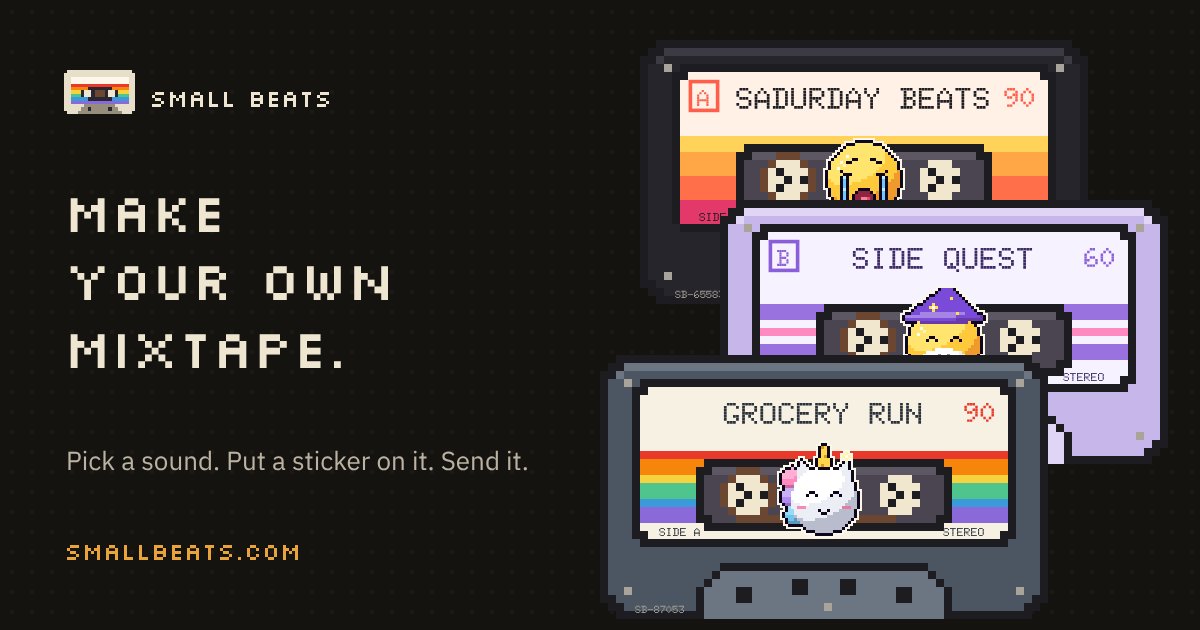
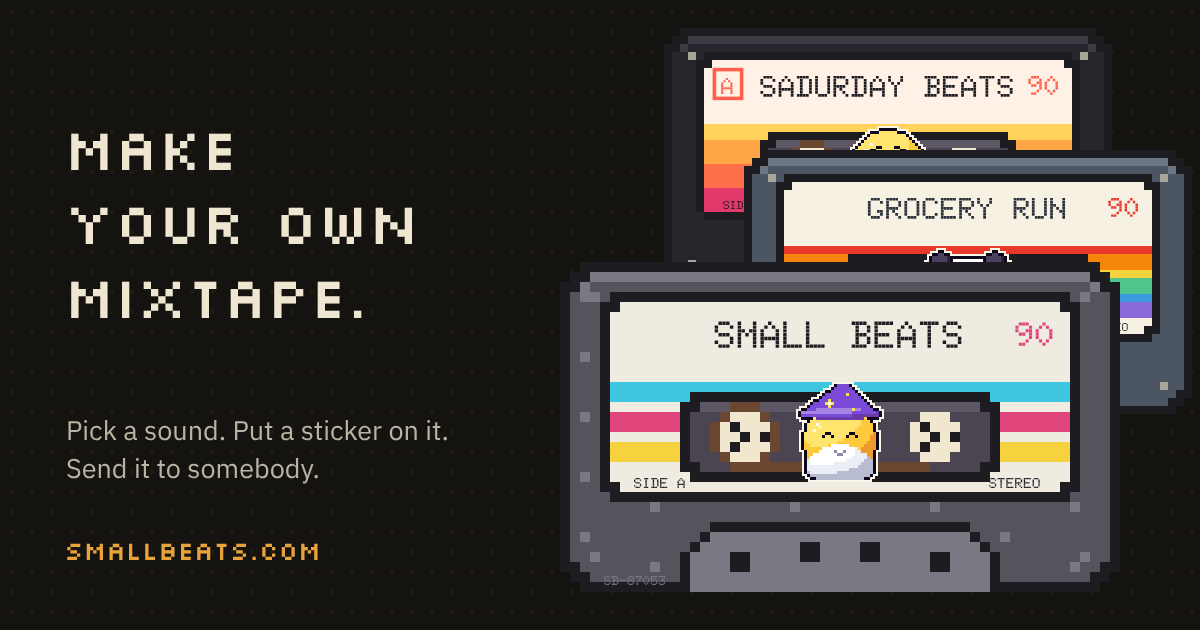
mix

diff --git a/index.html b/index.html
@@ -12,11 +12,11 @@
 <meta property="og:url" content="https://smallbeats.com/">
 <meta property="og:title" content="Small Beats · Make your own mixtape">
 <meta property="og:description" content="Pick a sound. Mix a few parts. Put a sticker on it. Send it to somebody.">
-<meta property="og:image" content="https://smallbeats.com/og.png?v=3">
+<meta property="og:image" content="https://smallbeats.com/og.png?v=6">
 <meta property="og:image:width" content="1200"><meta property="og:image:height" content="630">
-<meta property="og:image:alt" content="Three pixel cassettes, GROCERY RUN, SIDE QUEST and SADURDAY BEATS, each with a sticker, next to the words Make your own mixtape.">
+<meta property="og:image:alt" content="A smoked pixel cassette with cyan, pink and yellow stripes, labelled SMALL BEATS with a wizard sticker, in front of two more tapes, next to the words Make your own mixtape.">
 <meta name="twitter:card" content="summary_large_image">
-<meta name="twitter:image" content="https://smallbeats.com/og.png?v=3">
+<meta name="twitter:image" content="https://smallbeats.com/og.png?v=6">
 <link rel="icon" href="icons/favicon-32.png" sizes="32x32" type="image/png">
 <link rel="apple-touch-icon" href="icons/apple-touch-icon.png">
 <link rel="manifest" href="manifest.webmanifest">
@@ -29,7 +29,7 @@
 <a class="skip" href="#make">Skip to the machine</a>
 
 <header class="top">
-  <a class="brand" href="/" aria-label="Small Beats home"><i class="brand-mark" aria-hidden="true"></i><span>SMALL BEATS</span></a>
+  <a class="brand" href="/" aria-label="Small Beats home"><picture><source media="(max-width:620px)" srcset="icons/logo-2.png 1x, icons/logo-4.png 2x"><img class="brand-logo" src="icons/logo-3.png" srcset="icons/logo-3.png 1x, icons/logo-6.png 2x" alt="Small Beats"></picture></a>
   <nav class="nav" aria-label="Main"><a href="#make">MAKE</a><a href="#tapes" id="navTapes" hidden>TAPES<b class="nav-n" id="navCount"></b></a><a href="#about">ABOUT</a><a href="https://www.youtube.com/@smallbeatsfm" target="_blank" rel="noopener">YOUTUBE</a></nav>
 </header>
 

diff --git a/app.js b/app.js
@@ -77,11 +77,11 @@ let S={vol:.8,by:'',tapes:[],draft:null};
 try{const v=JSON.parse(localStorage.getItem(STORE)||'null');if(v&&typeof v==='object')Object.assign(S,v);}catch(e){}
 S.tapes=(Array.isArray(S.tapes)?S.tapes:[]).map(cleanTape).filter(Boolean).slice(0,60);
 const STARTERS=[ /* three tapes already on the shelf on a first visit, so the shelf, PLAY, REMIX and COPY LINK explain themselves */
-  {id:'grocery',n:'GROCERY RUN',c:9,d:3,b:3,k:3,w:0,p:1,s:1,r:1422687053,t:224,i:1},
-  {id:'sadurday',n:'SADURDAY BEATS',c:4,d:2,b:1,k:1,w:0,p:1,s:0,r:1469865583,t:56,i:1},
-  {id:'sidequest',n:'SIDE QUEST',c:5,d:2,b:1,k:4,w:0,p:1,s:3,r:1469865583,t:196,i:1}];
+  {id:'grocery',n:'GROCERY RUN',c:9,d:3,b:1,k:3,w:0,p:1,s:1,r:1422687053,t:214,i:1},
+  {id:'sidequest',n:'SIDE QUEST',c:5,d:2,b:1,k:4,w:0,p:1,s:3,r:1469865583,t:196,i:1},
+  {id:'sadurday',n:'SADURDAY BEATS',c:4,d:2,b:1,k:1,w:0,p:1,s:0,r:1469865583,t:56,i:1}];
 if(!S.seeded&&!BC){S.tapes=STARTERS.map(cleanTape).concat(S.tapes).slice(0,60);S.seeded=1;} /* once: throw them out and they stay gone */
-const FIRST_TAPE=STARTERS[0]; /* what a first visit opens on: house, synth bass, pad, the rainbow tape, the unicorn */
+const FIRST_TAPE=STARTERS[0]; /* what a first visit opens on: house, warm bass, pad, the rainbow tape, the panda */
 let draft=cleanTape(S.draft)||cleanTape(FIRST_TAPE);delete draft.id;
 function save(){if(BC)return;S.draft=draft;try{localStorage.setItem(STORE,JSON.stringify(S));}catch(e){}}
 let mail=null;{const c=Q.get('tape');if(c)mail=decodeTape(c);}

diff --git a/sw.js b/sw.js
@@ -3,7 +3,7 @@
    Updates need no version bump: every request goes to the network first (revalidating, not trusting the HTTP cache), so
    anyone online gets exactly what's deployed, and the offline copy refreshes as they go. The cache is only used offline. */
 const CACHE = 'smallbeats-v1';
-const SHELL = ['./', './index.html', './privacy.html', './terms.html', './404.html', './app.css', './app.js', './engine.js', './stickers.js', './stickers.png', './analytics.js', './fonts/silkscreen-400.woff2', './fonts/doto-900.woff2', './fonts/doto-700.woff2', './fonts/plex-400.woff2', './fonts/plex-600.woff2', './manifest.webmanifest', './icons/mark.png', './icons/icon-192.png', './icons/icon-512.png', './icons/favicon-32.png', './icons/apple-touch-icon.png'];
+const SHELL = ['./', './index.html', './privacy.html', './terms.html', './404.html', './app.css', './app.js', './engine.js', './stickers.js', './stickers.png', './analytics.js', './fonts/silkscreen-400.woff2', './fonts/doto-900.woff2', './fonts/doto-700.woff2', './fonts/plex-400.woff2', './fonts/plex-600.woff2', './manifest.webmanifest', './icons/mark.png', './icons/logo-2.png', './icons/logo-3.png', './icons/logo-4.png', './icons/logo-6.png', './icons/icon-192.png', './icons/icon-512.png', './icons/favicon-32.png', './icons/apple-touch-icon.png'];
 self.addEventListener('install', (e) => {
   e.waitUntil(caches.open(CACHE).then((c) => c.addAll(SHELL.map((u) => new Request(u, { cache: 'reload' })))).then(() => self.skipWaiting()));
 });

diff --git a/app.css b/app.css
@@ -26,7 +26,8 @@ a{color:var(--amber)}
 /* ---- header ---- */
 .top{display:flex;align-items:center;justify-content:space-between;gap:4px 12px;max-width:1180px;margin:0 auto;padding:10px var(--gut);flex-wrap:wrap}
 .brand{display:flex;align-items:center;gap:8px;color:var(--cream);text-decoration:none;font:700 20px/1 Silk;letter-spacing:1px}
-.brand-mark{width:42px;height:26px;display:block;flex:0 0 auto;background:url(icons/mark.png) 0 0/42px 26px no-repeat;image-rendering:pixelated} /* the Rainbow tape, 21 x 13 pixels at 2x */
+.brand-logo{display:block;width:168px;height:99px;image-rendering:pixelated} /* the logo tape: Rainbow, SMALL BEATS, the wizard; drawn at whole-pixel sizes */
+@media (max-width:620px){.brand-logo{width:112px;height:66px}}
 .nav{display:flex;gap:4px 18px;flex-wrap:wrap}
 .nav a{color:var(--muted);text-decoration:none;font:700 13px/1 Silk;letter-spacing:1px;padding:10px 2px}
 .nav a:hover{color:var(--cream)}
@@ -244,3 +245,4 @@ a{color:var(--amber)}
 #tapeName.rolled{animation:rolled .6s steps(3,end)}
 @keyframes rolled{0%{background:var(--yellow)}100%{background:var(--cream)}}
 @media (prefers-reduced-motion:reduce){#tapeName.rolled{animation:none}}
+@media (max-width:620px){.top{flex-wrap:nowrap}.nav{gap:4px 14px;justify-content:flex-end}.nav a[href="#make"],.nav a[href="/#make"]{display:none}.nav a{font-size:12px}} /* phones: logo and links on one line */

diff --git a/404.html b/404.html
@@ -14,7 +14,7 @@
 </head>
 <body>
 <header class="top">
-  <a class="brand" href="/" aria-label="Small Beats home"><i class="brand-mark" aria-hidden="true"></i><span>SMALL BEATS</span></a>
+  <a class="brand" href="/" aria-label="Small Beats home"><picture><source media="(max-width:620px)" srcset="icons/logo-2.png 1x, icons/logo-4.png 2x"><img class="brand-logo" src="icons/logo-3.png" srcset="icons/logo-3.png 1x, icons/logo-6.png 2x" alt="Small Beats"></picture></a>
   <nav class="nav" aria-label="Main"><a href="/#make">MAKE</a><a href="/#tapes">TAPES</a><a href="/#about">ABOUT</a><a href="https://www.youtube.com/@smallbeatsfm" target="_blank" rel="noopener">YOUTUBE</a></nav>
 </header>
 <main class="page">

diff --git a/privacy.html b/privacy.html
@@ -14,7 +14,7 @@
 </head>
 <body>
 <header class="top">
-  <a class="brand" href="/" aria-label="Small Beats home"><i class="brand-mark" aria-hidden="true"></i><span>SMALL BEATS</span></a>
+  <a class="brand" href="/" aria-label="Small Beats home"><picture><source media="(max-width:620px)" srcset="icons/logo-2.png 1x, icons/logo-4.png 2x"><img class="brand-logo" src="icons/logo-3.png" srcset="icons/logo-3.png 1x, icons/logo-6.png 2x" alt="Small Beats"></picture></a>
   <nav class="nav" aria-label="Main"><a href="/#make">MAKE</a><a href="/#tapes">TAPES</a><a href="/#about">ABOUT</a><a href="https://www.youtube.com/@smallbeatsfm" target="_blank" rel="noopener">YOUTUBE</a></nav>
 </header>
 <main class="page">

diff --git a/terms.html b/terms.html
@@ -14,7 +14,7 @@
 </head>
 <body>
 <header class="top">
-  <a class="brand" href="/" aria-label="Small Beats home"><i class="brand-mark" aria-hidden="true"></i><span>SMALL BEATS</span></a>
+  <a class="brand" href="/" aria-label="Small Beats home"><picture><source media="(max-width:620px)" srcset="icons/logo-2.png 1x, icons/logo-4.png 2x"><img class="brand-logo" src="icons/logo-3.png" srcset="icons/logo-3.png 1x, icons/logo-6.png 2x" alt="Small Beats"></picture></a>
   <nav class="nav" aria-label="Main"><a href="/#make">MAKE</a><a href="/#tapes">TAPES</a><a href="/#about">ABOUT</a><a href="https://www.youtube.com/@smallbeatsfm" target="_blank" rel="noopener">YOUTUBE</a></nav>
 </header>
 <main class="page">

diff --git a/README.md b/README.md
@@ -17,7 +17,8 @@ A static site: no server, no build step, no accounts. Upload the folder as is.
 | `analytics.js` | Google Analytics 4 (`G-QY4M7NZD76`). Empty the ID to switch it off |
 | `privacy.html`, `terms.html`, `404.html` | The other pages |
 | `sw.js`, `manifest.webmanifest`, `icons/` | Offline copy and home-screen install |
-| `og.png` | The link preview image (1200 × 630) |
+| `og.png` | The link preview image (1200 × 630): MAKE YOUR OWN MIXTAPE. and the logo tape in front of two others |
+| `icons/logo-*.png` | The logo: the Smoked tape labelled SMALL BEATS with the wizard sticker, at cell sizes 2, 3, 4 and 6 px (the header uses 3 on computers and 2 on phones, with the double size for sharp screens). `mark.png` is the tiny hand-drawn version for the browser tab |
 | `CNAME` | `smallbeats.com` (for GitHub Pages) |
 
 ## The loop
@@ -36,11 +37,11 @@ PICK → MIX → NEW TUNE → STICKER → NAME → SAVE → COPY LINK → (they)
 - **A tape in the mail** (`?tape=…`): the cassette, PLAY, REMIX THIS TAPE, and "keep it on my shelf". Touching any control while someone else's tape (or one from your shelf) is in the deck turns it into a remix: same recipe, credited "remixed from" its maker. Lineage is one generation deep.
 - The display shows SIDE A, the start sound, a tape counter and the tape name. The little level meter only lights while music is playing.
 
-A first visit opens on **GROCERY RUN**: HOUSE with house drums, synth bass and pad at the easy speed, the Rainbow cassette and the unicorn sticker (`FIRST_TAPE` in `app.js`). After that, the page reopens on whatever you were last working on.
+A first visit opens on **GROCERY RUN**: HOUSE with house drums, warm bass and pad at the easy speed, the Rainbow cassette and the panda sticker (`FIRST_TAPE` in `app.js`). After that, the page reopens on whatever you were last working on.
 
 ## First visit
 
-The shelf starts with three tapes: GROCERY RUN (house, Rainbow, unicorn), SADURDAY BEATS (lo-fi, Sunset, crying face) and SIDE QUEST (8-bit, Lavender, wizard), as `STARTERS` in `app.js`. They're added once; throw one out and it stays gone. The deck opens on GROCERY RUN.
+The shelf starts with three tapes: GROCERY RUN (house, warm bass, pad, Rainbow, panda), SIDE QUEST (8-bit, Lavender, wizard) and SADURDAY BEATS (lo-fi, Sunset, crying face), as `STARTERS` in `app.js`. They're added once; throw one out and it stays gone. The deck opens on GROCERY RUN.
 
 ## Names
 
